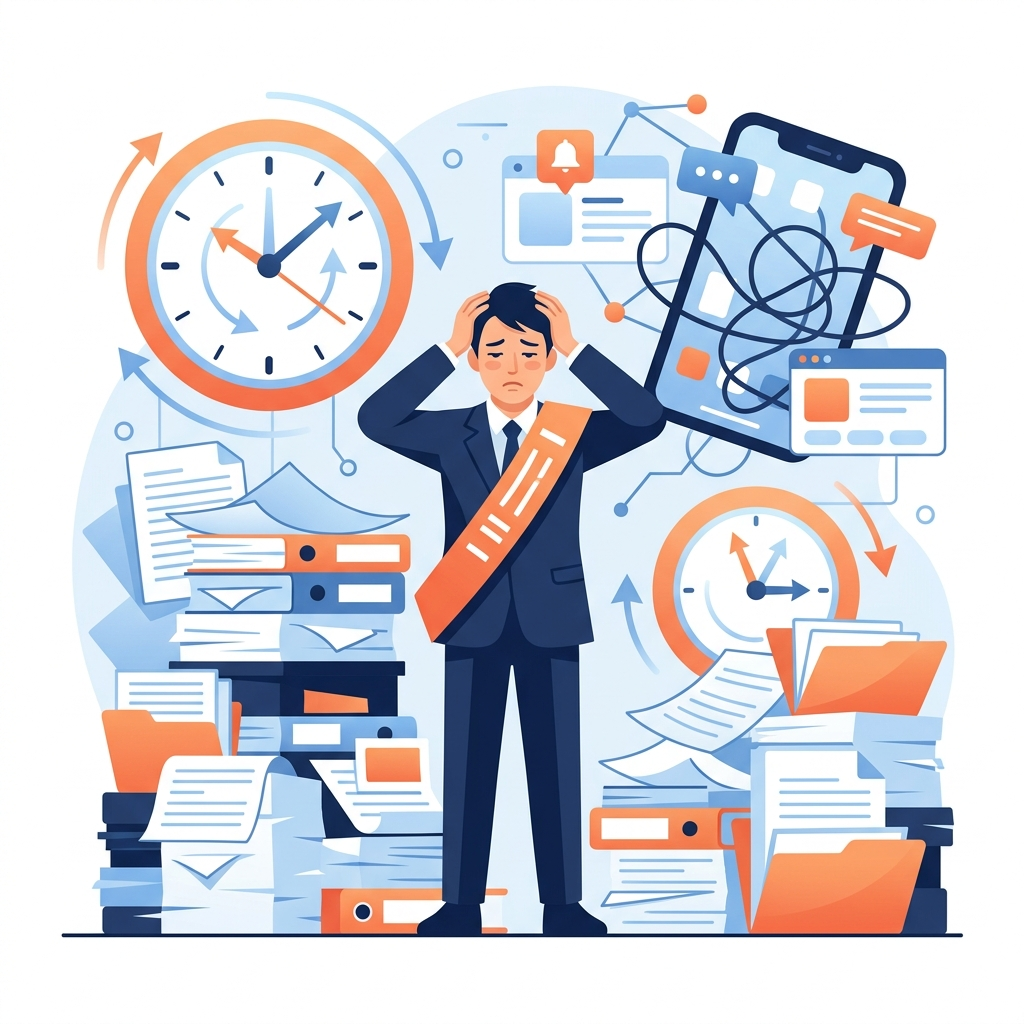
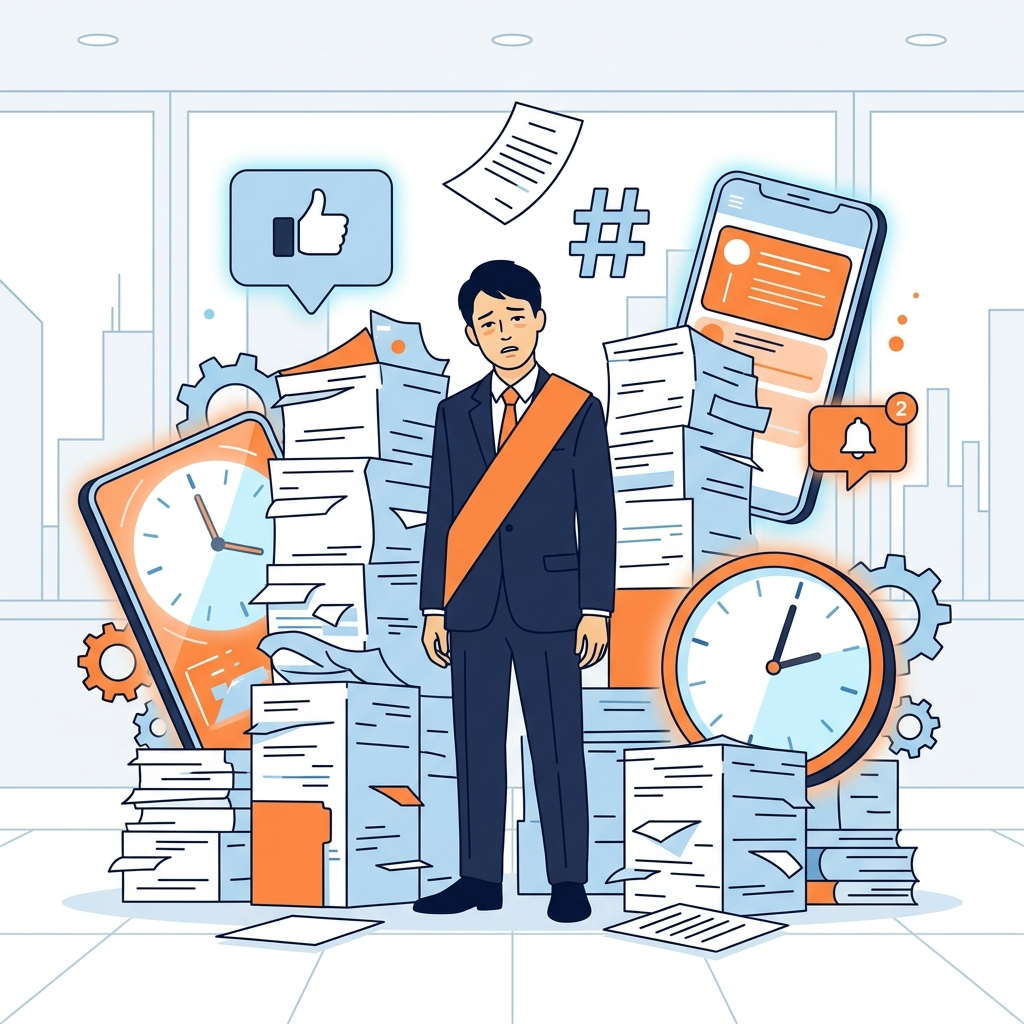
style: replace images with Japanese corporate style, update lineup text and links

diff --git a/index.html b/index.html
@@ -463,42 +463,33 @@
       <div class="container">
         <h2 class="lp-section-title"><span>Poliside</span><br><span class="big">サービスラインナップ</span></h2>
         <div class="accent-line"></div>
-        <div class="gridbox gridbox-col2" style="grid-template-columns: repeat(2, 1fr);">
+        <div class="gridbox gridbox-col3">
           <div class="lineup-card animate-on-scroll">
-            <div class="lineup-card__icon" style="background:linear-gradient(135deg,#EFF6FF,#DBEAFE);">
-              <i class="fas fa-users" style="color:#0EA5E9;"></i>
-            </div>
-            <span class="lineup-card__badge lineup-card__badge--active">公開中</span>
-            <h3>Poliside Fellowship</h3>
-            <p>当選後の若手議員のための伴走型コーチングプログラム。</p>
-            <a href="fellowship.html" class="cta-btn" style="padding: 12px 24px; font-size: 0.95rem;">詳しく見る</a>
-          </div>
-          <div class="lineup-card animate-on-scroll delay-1">
             <div class="lineup-card__icon" style="background:linear-gradient(135deg,#F0FDF4,#DCFCE7);">
               <i class="fas fa-newspaper" style="color:#22C55E;"></i>
             </div>
             <span class="lineup-card__badge lineup-card__badge--active">公開中</span>
-            <h3>Poliside Insight</h3>
+            <h3>政治活動ノウハウ記事</h3>
             <p>選挙・議会・政策に関する知見をまとめた記事メディア。</p>
             <a href="insight/index.html" class="cta-btn" style="padding: 12px 24px; font-size: 0.95rem;">記事を読む</a>
           </div>
-          <div class="lineup-card animate-on-scroll">
+          <div class="lineup-card animate-on-scroll delay-1">
             <div class="lineup-card__icon" style="background:linear-gradient(135deg,#FFF7ED,#FFEDD5);">
               <i class="fas fa-chart-line" style="color:#F97316;"></i>
             </div>
-            <span class="lineup-card__badge lineup-card__badge--coming">近日公開</span>
+            <span class="lineup-card__badge lineup-card__badge--active">公開中</span>
             <h3>Polidash</h3>
             <p>選挙陣営向けの高機能ダッシュボード。ボランティア管理や日々のタスク進行を一元化します。</p>
-            <span class="cta-btn" style="padding: 12px 24px; font-size: 0.95rem; opacity: 0.5; cursor: not-allowed;">準備中</span>
+            <a href="https://polidash.net" target="_blank" rel="noopener" class="cta-btn" style="padding: 12px 24px; font-size: 0.95rem;">詳しく見る</a>
           </div>
-          <div class="lineup-card animate-on-scroll delay-1">
+          <div class="lineup-card animate-on-scroll delay-2">
             <div class="lineup-card__icon" style="background:linear-gradient(135deg,#EFF6FF,#DBEAFE);">
               <i class="fas fa-shoe-prints" style="color:#0EA5E9;"></i>
             </div>
-            <span class="lineup-card__badge lineup-card__badge--coming">近日公開</span>
+            <span class="lineup-card__badge lineup-card__badge--active">公開中</span>
             <h3>PoliStep</h3>
             <p>政治活動のステップバイステップ進行支援アプリ。やるべきことが明確になります。</p>
-            <span class="cta-btn" style="padding: 12px 24px; font-size: 0.95rem; opacity: 0.5; cursor: not-allowed;">準備中</span>
+            <a href="https://polistep.net" target="_blank" rel="noopener" class="cta-btn" style="padding: 12px 24px; font-size: 0.95rem;">詳しく見る</a>
           </div>
         </div>
       </div>
@@ -533,8 +524,7 @@
         <span class="footer__logo">Poliside</span>
         <div class="footer__links">
           <a href="index.html" class="footer__link">TOP</a>
-          <a href="insight/index.html" class="footer__link">Poliside Insight</a>
-          <a href="fellowship.html" class="footer__link">Poliside Fellowship</a>
+          <a href="insight/index.html" class="footer__link">政治活動ノウハウ記事</a>
           <a href="https://lin.ee/en5smI7" target="_blank" rel="noopener" class="footer__link">LINE相談</a>
         </div>
       </div>
